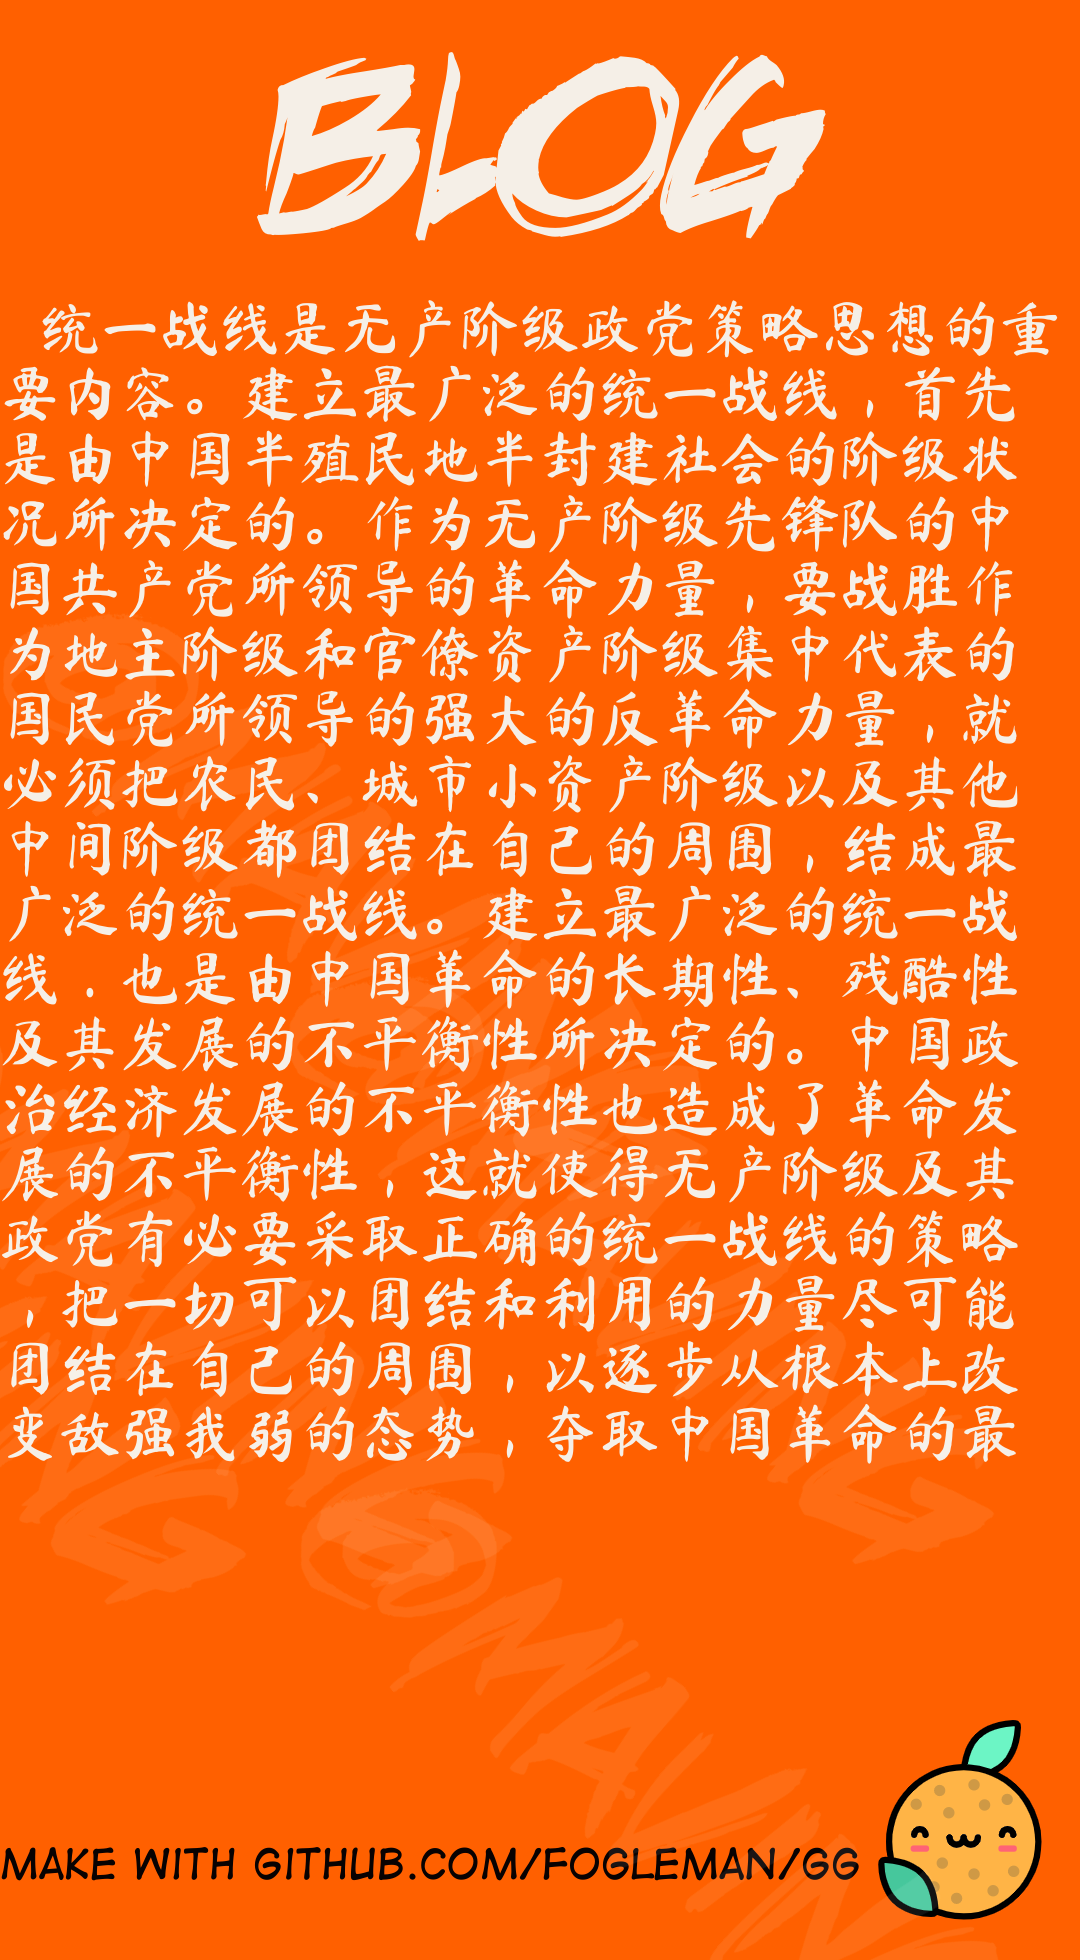
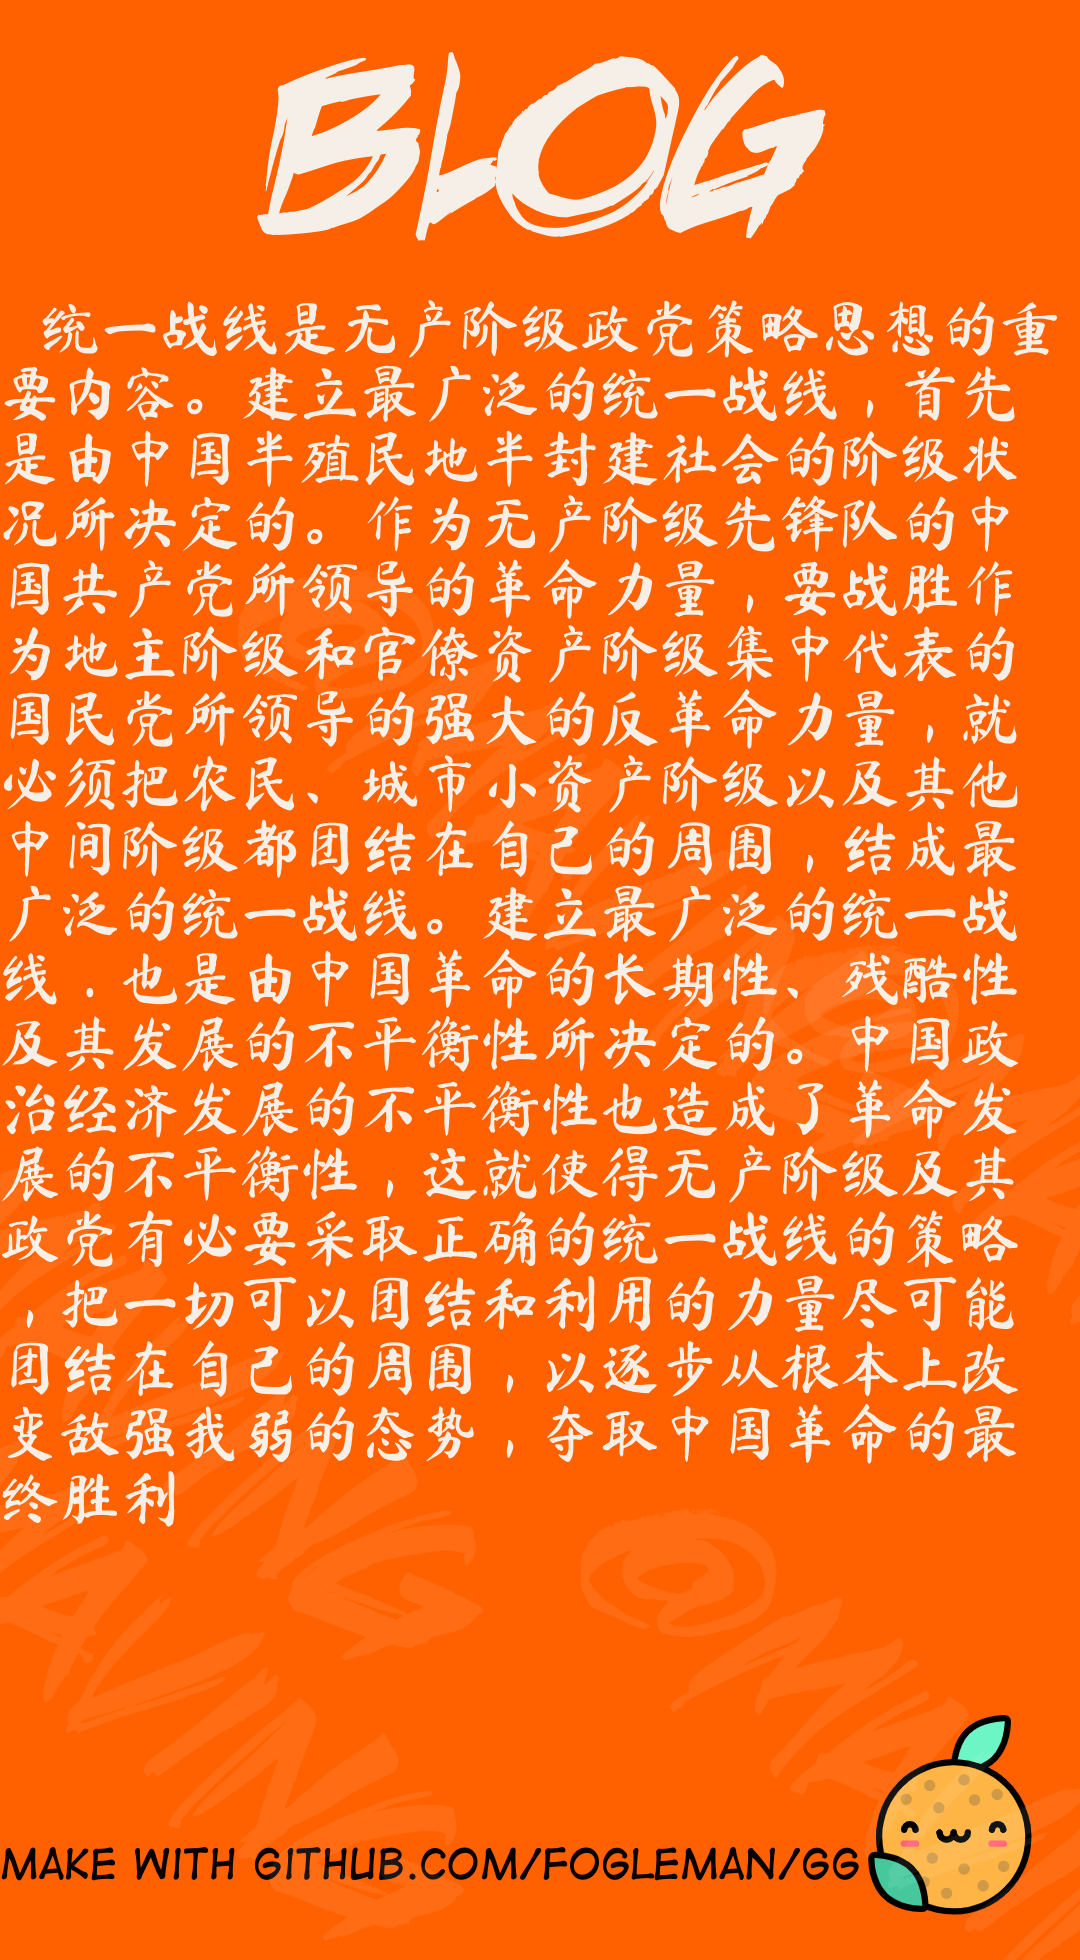
修复消息太多消息丢失bug，优化了性能

diff --git a/controller/file.go b/controller/file.go
@@ -129,8 +129,9 @@ func CreateImg(c *gin.Context) {
 		dc.DrawString(str, 40, 350+float64(0)*float64(lheight))
 	} else {
 		//多行
-		for _, r := range strings.ReplaceAll(str, " ", "") {
+		for i, r := range strings.ReplaceAll(str, " ", "") {
 			width, heights := dc.MeasureString(string(r))
+			wd, _ := dc.MeasureString(str[i:])
 			//拼接字符串
 			s += string(r)
 			//计算宽度，满1行
@@ -141,6 +142,13 @@ func CreateImg(c *gin.Context) {
 				k = 0
 				s = ""
 			}
+			fmt.Println("i", i, len(str))
+			if wd < 1000 && i == len(str)-2 || i == len(str)-3 || i == len(str)-1 {
+				fmt.Println("i", i, len(str))
+				fmt.Println(wd)
+				list = append(list, s)
+			}
+
 			fmt.Println(h)
 			fmt.Printf("Character '%c' has width %.2f %v\n", r, width, k)
 		}
